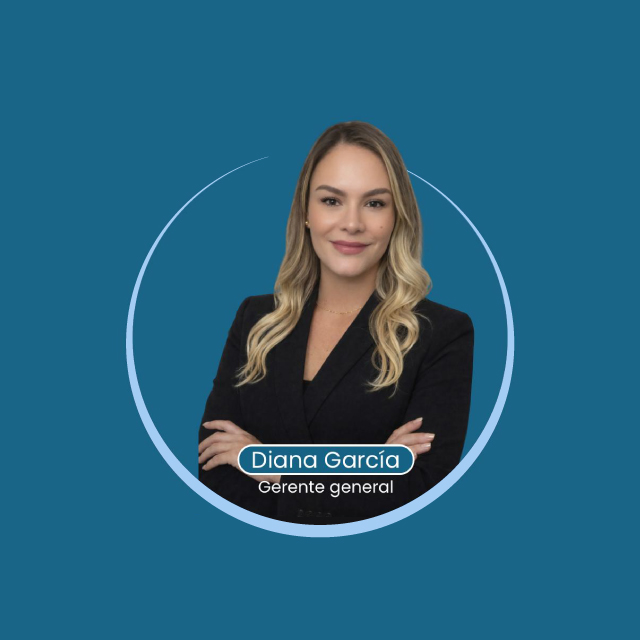
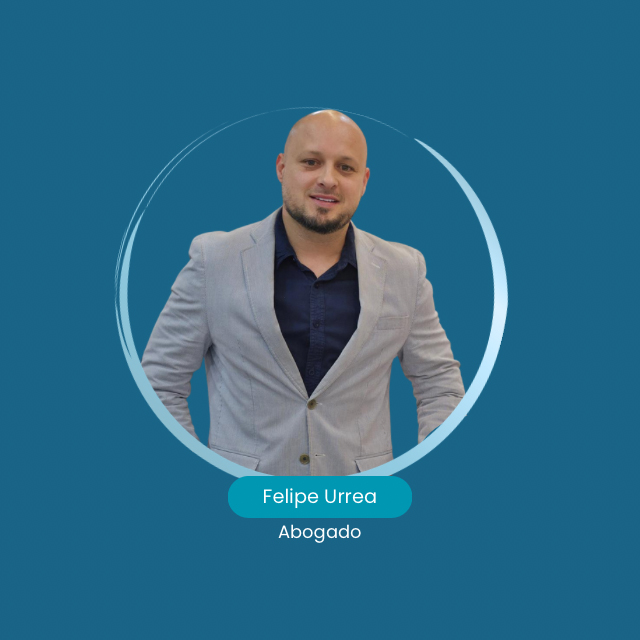
Actualización Asesores e información de contacto

diff --git a/components/AgentsSection.vue b/components/AgentsSection.vue
@@ -67,19 +67,19 @@
 const agents = ref([
   {
     id: 1,
-    name: 'Valentina Florez',
-    role: 'Asesora Arriendos',
-    photo: '/asesores/asesor-01.jpeg',
+    name: 'Leidy Gil',
+    role: 'Asesora Comercial',
+    photo: '/asesores/asesor-01.jpg',
     properties: 45,
     rating: '4.9',
     description: 'Especialista en propiedades residenciales del Oriente Antioqueño con 8 años de experiencia.',
-    whatsapp: 'https://wa.me/573012421919'
+    whatsapp: 'https://wa.me/573507776633'
   },
   {
     id: 2,
-    name: 'Mayerly Martínez',
-    role: 'Contabilidad',
-    photo: '/asesores/asesor-02.jpeg',
+    name: 'Alejandra Vergara',
+    role: 'Asesora Comercial',
+    photo: '/asesores/asesor-02.jpg',
     properties: 38,
     rating: '4.8',
     description: 'Experto en fincas y propiedades rurales. Conocimiento profundo del mercado regional.',
@@ -87,35 +87,25 @@ const agents = ref([
   },
   {
     id: 3,
-    name: 'Leidy Gil',
-    role: 'Asesora Ventas',
-    photo: '/asesores/asesor-03.jpeg',
+    name: 'Mayerly Martínez',
+    role: 'Asesora Inmobiliaria',
+    photo: '/asesores/asesor-03.jpg',
     properties: 52,
     rating: '5.0',
-    description: 'Líder en ventas de apartamentos y locales comerciales. Atención personalizada garantizada.',
-    whatsapp: 'https://wa.me/573507776633'
-  },
-   {
-    id: 4,
-    name: 'Natalia López',
-    role: 'Asesora Inmobiliaria',
-    photo: '/asesores/asesor-04.jpeg',
-    properties: 28,
-    rating: '4.7',
     description: 'Líder en ventas de apartamentos y locales comerciales. Atención personalizada garantizada.',
     whatsapp: 'https://wa.me/573236536666'
   },
   {
-    id: 5,
+    id: 4,
     name: 'Diana García',
     role: 'Gerente General',
-    photo: '/asesores/asesor-05.jpg'
+    photo: '/asesores/asesor-04.jpg'
   },
   {
-    id: 6,
+    id: 5,
     name: 'Juan Felipe Urrea',
     role: 'Abogado',
-    photo: '/asesores/asesor-06.jpg'
+    photo: '/asesores/asesor-05.jpg'
   }
 ])
 </script>
